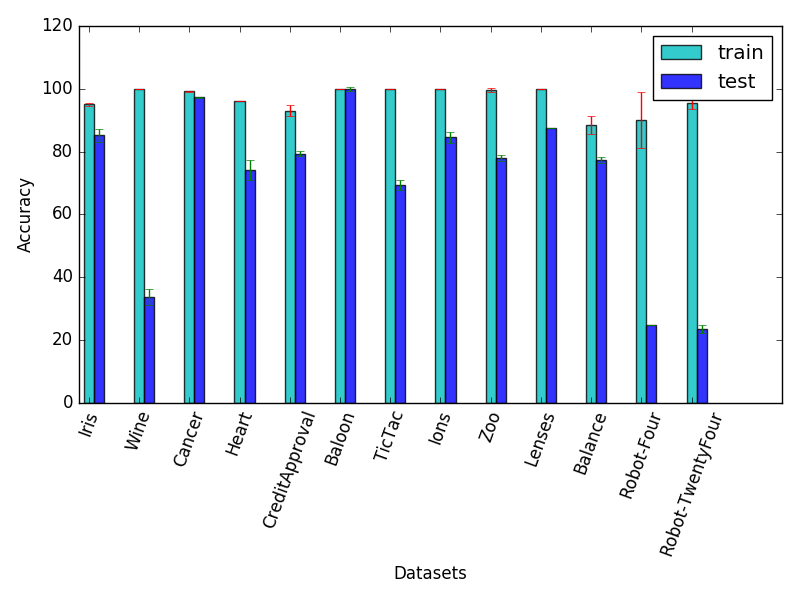
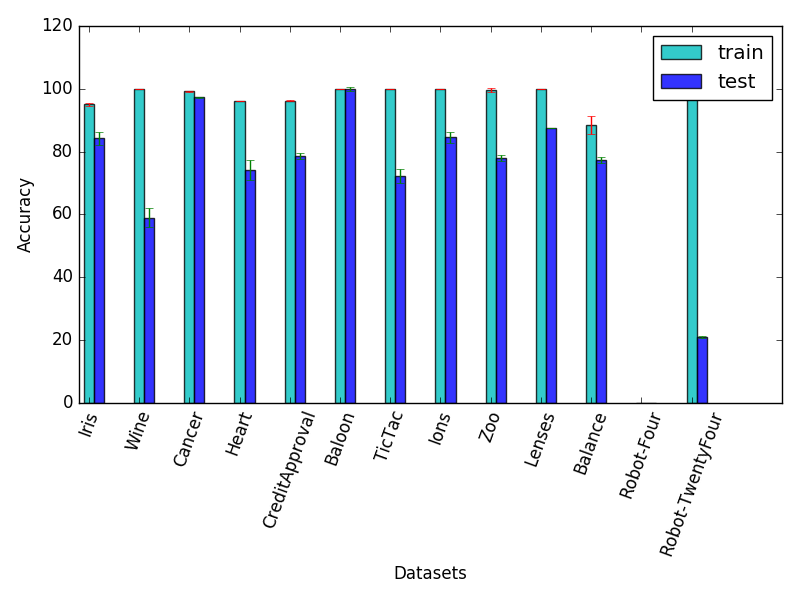
results

diff --git a/main.py b/main.py
@@ -309,7 +309,7 @@ class MCMC:
             diff = min(700, diff_prior + diff_likelihood + diff_prop)
 
             # print()
-            # print(diff_likelihood+diff_prior+diff_prop)
+            print(diff, i )
             mh_prob = min(1, math.exp(diff))
             # print(mh_prob)
 
@@ -328,7 +328,7 @@ class MCMC:
                 eta = eta_pro
 
                 elapsed_time = ":".join(covert_time(int(time.time()-start)))
-                sys.stdout.write('\r' + file + ' : ' + str(round(float(i) / (samples - 1) * 100, 2)) + '% complete....'+" time elapsed: " + elapsed_time)
+                #sys.stdout.write('\r' + file + ' : ' + str(round(float(i) / (samples - 1) * 100, 2)) + '% complete....'+" time elapsed: " + elapsed_time)
                 # print  likelihood, prior_current, diff_prop, rmsetrain, rmsetest, w, 'accepted'
                 #print w_proposal, 'w_proposal'
                 #print w_gd, 'w_gd'
@@ -375,13 +375,13 @@ def main():
     hidden = np.array([6, 6, 6, 16, 20, 5, 30, 8, 6, 5, 8, 14, 14])
     output = np.array([2, 3, 1, 1, 1, 1, 1, 1, 7, 3, 3, 4, 4])
 
-    samplelist = [5000, 6000, 10000, 20000, 3000, 5000, 20000, 5000, 3000, 5000, 2000, 2000, 2000]
+    samplelist = [5000, 8000, 10000, 20000, 15000, 5000, 20000, 5000, 3000, 5000, 2000, 20000, 10000]
     x = 3
 
-    filetrain = open('train.txt', 'r')
-    filetest = open('test.txt', 'r')
-    filestdtr = open('std_tr.txt','r')
-    filestdts = open('std_ts.txt', 'r')
+    filetrain = open('Results/train.txt', 'r')
+    filetest = open('Results/test.txt', 'r')
+    filestdtr = open('Results/std_tr.txt','r')
+    filestdts = open('Results/std_ts.txt', 'r')
     
     train_accs = np.loadtxt(filetrain)
     test_accs = np.loadtxt(filetest)
@@ -394,10 +394,6 @@ def main():
     filestdtr.close()
     filestdts.close()
     
-    filetrain = open('train.txt', 'w+')
-    filetest = open('test.txt', 'w+')
-    filestdtr = open('std_tr.txt','w+')
-    filestdts = open('std_ts.txt', 'w+')
     
 
     if x == 3:
@@ -407,7 +403,7 @@ def main():
         #w_limit =  0.02
         #tau_limit = 0.1
 
-    for problem in range(1,2):
+    for problem in [11]:
 
         #if os.path.isfile("Results/"+filenames[problem]+"_rmse.txt"):
         #    print filenames[problem]
@@ -504,6 +500,11 @@ def main():
     bar_width = 0.2
     opacity = 0.8
     capsize = 3
+    
+    filetrain = open('Results/train.txt', 'w+')
+    filetest = open('Results/test.txt', 'w+')
+    filestdtr = open('Results/std_tr.txt','w+')
+    filestdts = open('Results/std_ts.txt', 'w+')
 
     np.savetxt(filetrain, train_accs, fmt='%2.2f')
     np.savetxt(filestdtr, train_stds, fmt='%2.2f')
